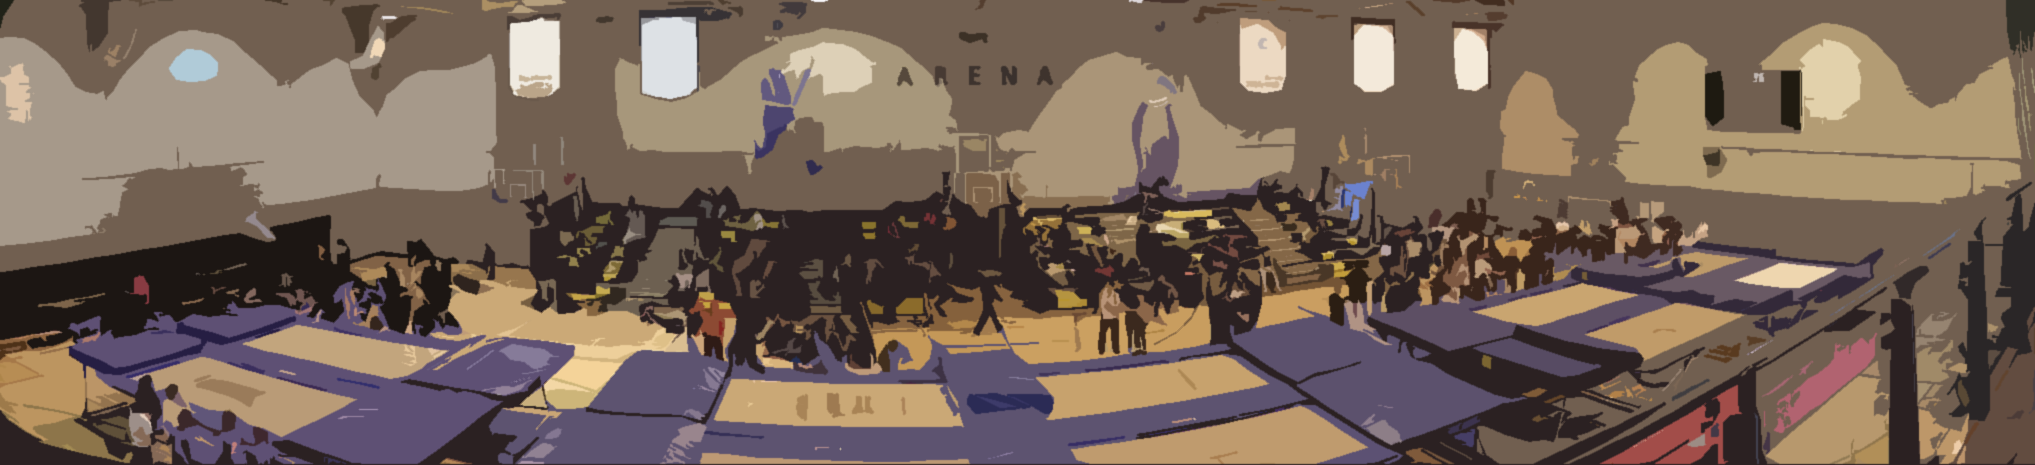
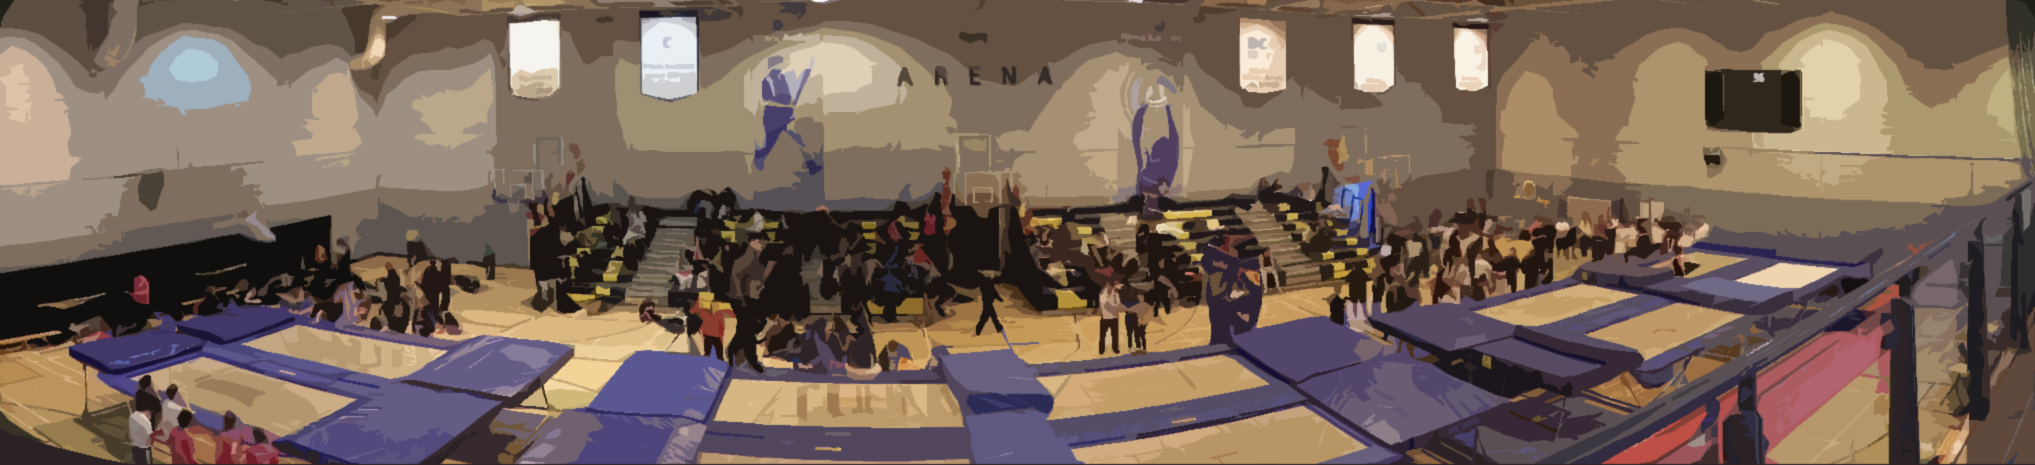
Main home image change, commisto info fix

diff --git a/src/js/main.js b/src/js/main.js
@@ -2,6 +2,11 @@
 
 // create the module and name it scotchApp
 // also include ngRoute for all our routing needs
+
+var commistoJson = "json/commisto.json";
+var sponsorJson = "json/sponsor.json";
+var photoJson = "json/photos.json";
+
 angular
 
     .module('istoApp', ['ngRoute', 'ui.bootstrap'])
@@ -13,41 +18,22 @@ angular
         $scope.mail     = 'mailto:info@isto.ie';
     })
 
-    .controller('carouselDemoCtrl', function ($scope) {
-        $scope.myInterval = 5000;
-        var slides = $scope.slides = [
-            {
-                image: "img/carousel/bg_1.jpg",
-                text: ""
-            },
-            {
-                image: "img/carousel/bg_1.jpg",
-                text: ""
-            },
-            {
-                image: "img/carousel/bg_1.jpg",
-                text: ""
-            }
-        ];
-    })
-
-
     .controller('commistoController', function($scope, $http) {
-        $http.get('json/commisto.json')
+        $http.get(commistoJson)
             .then(function(res){
                 $scope.committee = res.data;
             });
     })
 
     .controller('sponsorController', function($scope, $http) {
-        $http.get('json/sponsor.json')
+        $http.get(sponsorJson)
             .then(function(res){
                 $scope.sponsors = res.data;
             });
     })
 
     .controller('photoController', function($scope, $http, $modal) {
-        $http.get('json/photos.json')
+        $http.get(photoJson)
             .then(function(res){
                 $scope.albums = res.data;
             });
@@ -73,7 +59,6 @@ angular
     .controller('navController', function($scope, $location) {
         $scope.isActive = function (viewLocation) {
             return viewLocation === $location.path();
-            console.log($location.path());
         };
     })
 
@@ -81,7 +66,6 @@ angular
     .config(function($routeProvider) {
         $routeProvider
 
-            // route for the home page
             .when('/', {
                 templateUrl : 'partials/index.html'
             })
@@ -118,9 +102,3 @@ angular
             });
 
     })
-
-    // create the controller and inject Angular's $scope
-    .controller('mainController', function($scope) {
-        // create a message to display in our view
-        $scope.message = 'Everyone come and see how good I look!';
-    });

diff --git a/src/less/style.less b/src/less/style.less
@@ -3294,6 +3294,7 @@ hr {
     color: #bf0000;
 }
 
+/* Custom Isto Styles */
 
 #twitter-widget-0 {
     width: 100% !important;
@@ -3329,22 +3330,10 @@ hr {
     margin-top: 20px;
 }
 
-.carousel-background img{
-    border-left: 1px solid #333;
-    border-right: 1px solid #333;
-}
-
-.carousel-background{
-    background-color: #dddddd;
-    border-bottom: 1px solid #bbb;
-}
-
 .background-img{
     width: 100%;
     height: 400px;
     margin-bottom: 30px;
-
-
 }
 
 .content-image {
@@ -3352,4 +3341,45 @@ hr {
     border: 1px solid @dark-color;
     padding: 5px;
     background-color: @primary-color;
+}
+
+.background-img{
+    width: 100%;
+    height: 400px;
+    margin-bottom: 30px;
+}
+
+.container-background-img{
+    border-top: 1px solid @dark-color;
+    margin-bottom: 10px;
+}
+
+@media (max-width: 768px) {
+    .background-img{
+        width: 100%;
+        height: 275px;
+    }
+
+}
+
+@media (min-width: 768px) and (max-width: 991px) {
+    .background-img{
+        width: 100%;
+        height: 320px;
+    }
+
+}
+
+@media (min-width: 992px) {
+    .background-img{
+        width: 100%;
+        height: 360px;
+    }
+}
+
+@media (min-width: 1200px) {
+    .background-img{
+        width: 100%;
+        height: 400px;
+    }
 }

diff --git a/src/css/main.css b/src/css/main.css
@@ -2610,6 +2610,7 @@ hr {
 .icon-box.icon-box-danger h6 {
   color: #bf0000;
 }
+/* Custom Isto Styles */
 #twitter-widget-0 {
   width: 100% !important;
   min-height: 720px;
@@ -2637,14 +2638,6 @@ hr {
   padding: 20px;
   margin-top: 20px;
 }
-.carousel-background img {
-  border-left: 1px solid #333;
-  border-right: 1px solid #333;
-}
-.carousel-background {
-  background-color: #dddddd;
-  border-bottom: 1px solid #bbb;
-}
 .background-img {
   width: 100%;
   height: 400px;
@@ -2655,4 +2648,37 @@ hr {
   border: 1px solid #28364f;
   padding: 5px;
   background-color: #00708c;
+}
+.background-img {
+  width: 100%;
+  height: 400px;
+  margin-bottom: 30px;
+}
+.container-background-img {
+  border-top: 1px solid #28364f;
+  margin-bottom: 10px;
+}
+@media (max-width: 768px) {
+  .background-img {
+    width: 100%;
+    height: 275px;
+  }
+}
+@media (min-width: 768px) and (max-width: 991px) {
+  .background-img {
+    width: 100%;
+    height: 320px;
+  }
+}
+@media (min-width: 992px) {
+  .background-img {
+    width: 100%;
+    height: 360px;
+  }
+}
+@media (min-width: 1200px) {
+  .background-img {
+    width: 100%;
+    height: 400px;
+  }
 }

diff --git a/src/partials/index.html b/src/partials/index.html
@@ -1,23 +1,4 @@
-    <!--
-
-<section>
-        <div class="carousel" ng-controller="carouselDemoCtrl">
-            <div class="carousel-background">
-                <carousel interval="myInterval">
-                    <slide ng-repeat="slide in slides" active="slide.active">
-                        <img ng-src="{{slide.image}}" style="margin:auto;" class="carousel-img">
-                        <div class="carousel-caption">
-                            <h4>Slide {{$index}}</h4>
-                            <p>{{slide.text}}</p>
-                        </div>
-                    </slide>
-                </carousel>
-            </div>
-        </div>
-</section> <!-- carousel -->
-
-
-<section>
+<section class="container-background-img">
     <img ng-src="img/misc/hall_bg.png" class="background-img">
 </section>
 

diff --git a/src/index.html b/src/index.html
@@ -26,7 +26,7 @@
     <![endif]-->
 </head>
 
-<body ng-controller="mainController">
+<body>
 
 <div class="boxed animated fadeIn animation-delay-5">
 
